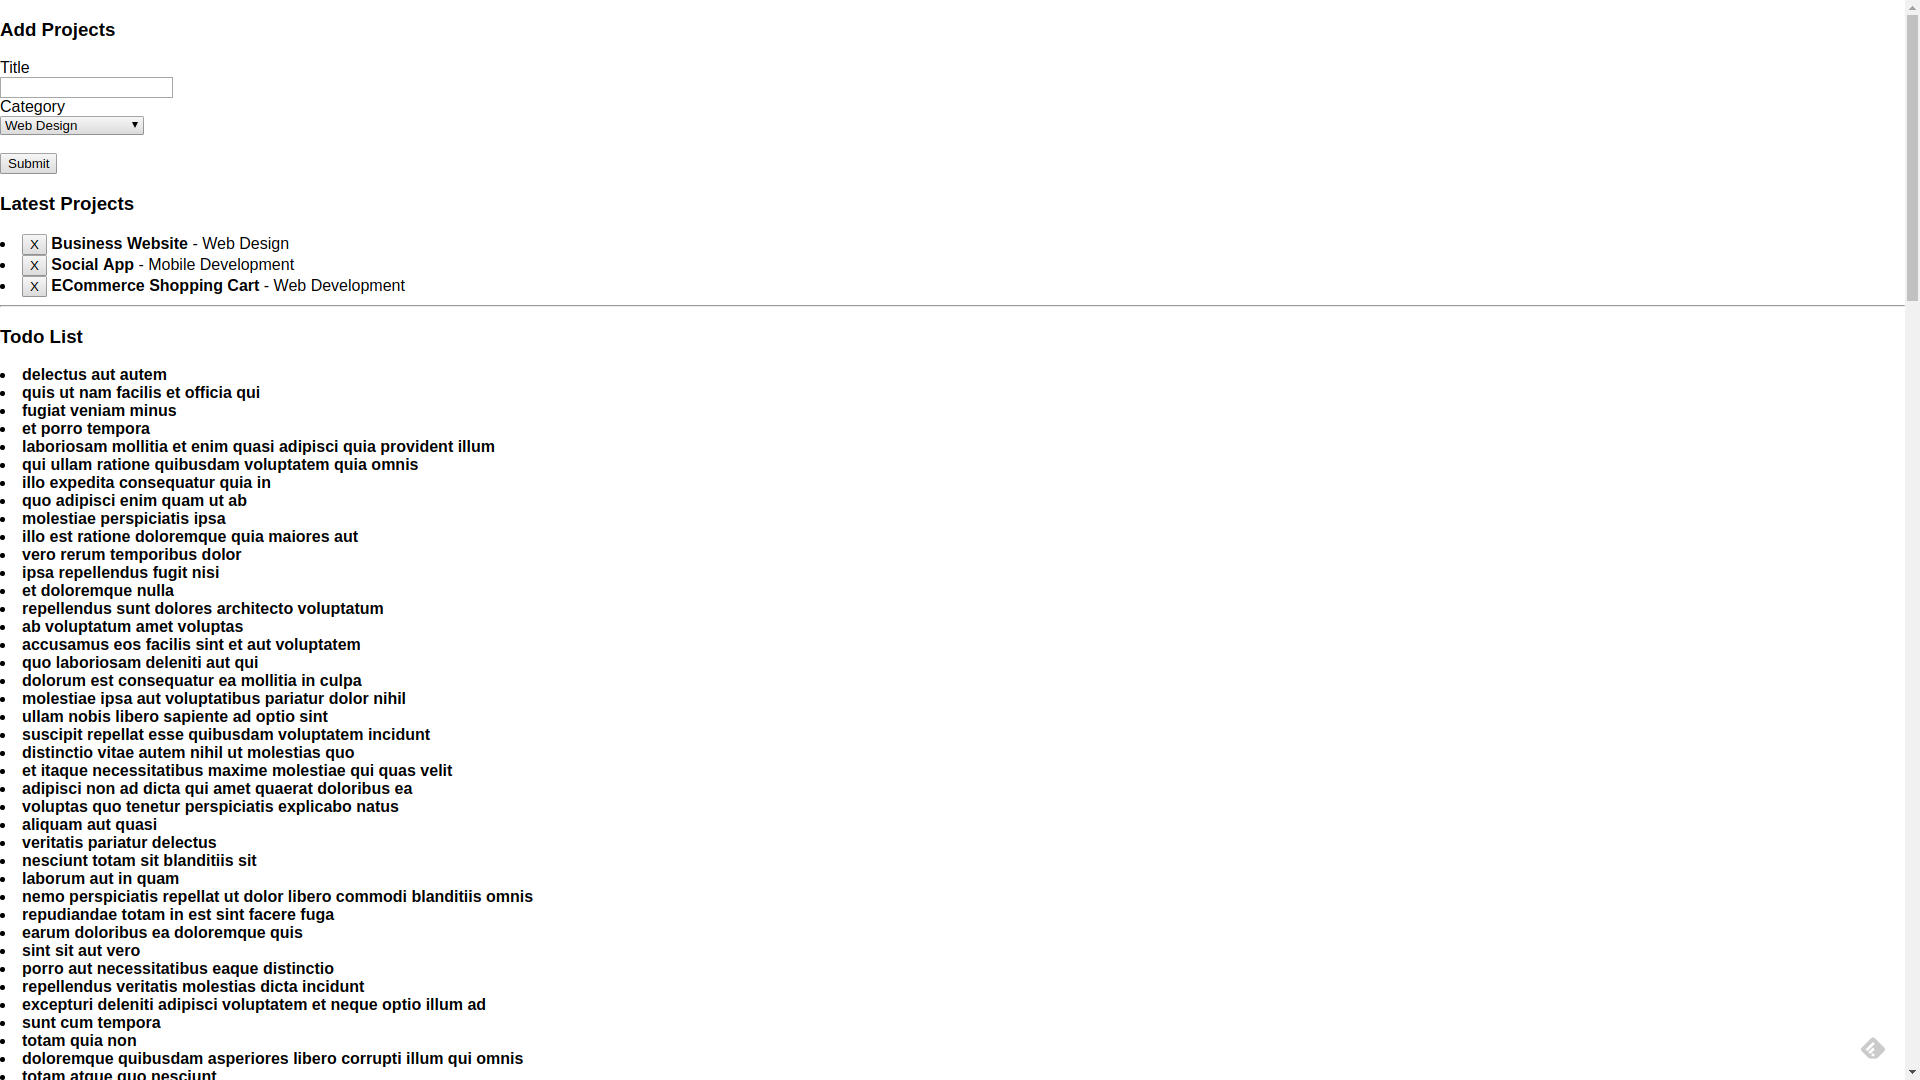
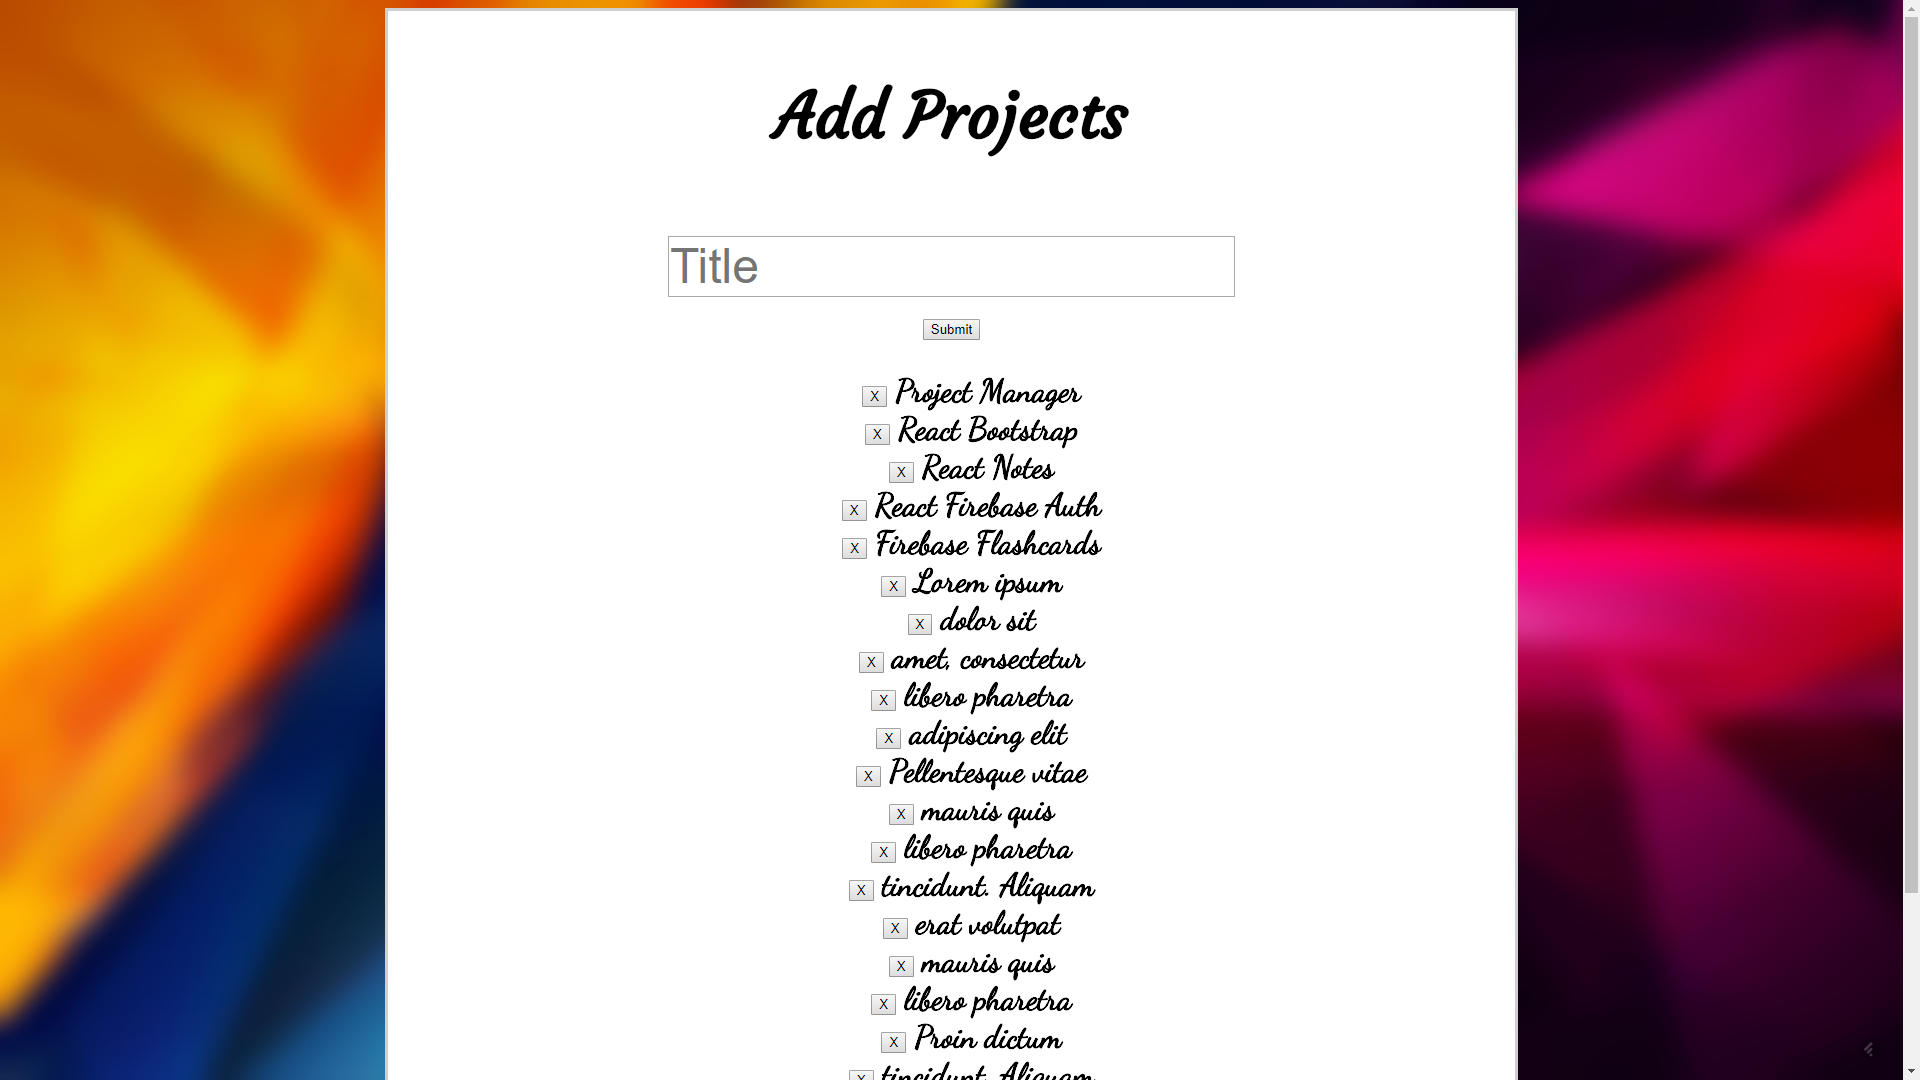
Improved styling of project manager.

diff --git a/projectmanager/src/App.js b/projectmanager/src/App.js
@@ -1,9 +1,8 @@
 import React, { Component } from 'react';
 import uuid from 'uuid';
-import Projects from './components/Projects';
-import AddProject from './components/AddProject';
-import $ from 'jquery';
-import Todos from './components/Todos';
+import Projects from './Projects/Projects';
+import AddProject from './AddProject/AddProject';
+import './App.css'
 
 class App extends Component {
   constructor(){
@@ -14,38 +13,91 @@ class App extends Component {
     }
   }
 
-  getTodos(){
-    $.ajax({
-      url: 'https://jsonplaceholder.typicode.com/todos',
-      dataType: 'json',
-      cache: false,
-      success: function(data){
-        this.setState({todos: data}, function(){
-          console.log(this.state);
-        });
-      }.bind(this),
-      erros: function(xhr, status, err){
-        console.log(err);
-      }
-    });
-  }
-
   getProjects(){
     this.setState({projects: [
       {
         id: uuid.v4(),
-        title: 'Business Website',
-        category: 'Web Design'
+        title: 'Project Manager'
       },
       {
         id: uuid.v4(),
-        title: 'Social App',
-        category: 'Mobile Development'
+        title: 'React Bootstrap'
       },
       {
         id: uuid.v4(),
-        title: 'ECommerce Shopping Cart',
-        category: 'Web Development'
+        title: 'React Notes'
+      },
+      {
+        id: uuid.v4(),
+        title: 'React Firebase Auth'
+      },
+      {
+        id: uuid.v4(),
+        title: 'Firebase Flashcards'
+      },
+      {
+        id: uuid.v4(),
+        title: 'Lorem ipsum'
+      },
+      {
+        id: uuid.v4(),
+        title: 'dolor sit'
+      },
+      {
+        id: uuid.v4(),
+        title: 'amet, consectetur'
+      },
+      {
+        id: uuid.v4(),
+        title: 'libero pharetra'
+      },
+      {
+        id: uuid.v4(),
+        title: 'adipiscing elit'
+      },
+      {
+        id: uuid.v4(),
+        title: 'Pellentesque vitae'
+      },
+      {
+        id: uuid.v4(),
+        title: 'mauris quis'
+      },
+      {
+        id: uuid.v4(),
+        title: 'libero pharetra'
+      },
+      {
+        id: uuid.v4(),
+        title: 'tincidunt. Aliquam'
+      },
+      {
+        id: uuid.v4(),
+        title: 'erat volutpat'
+      },
+      {
+        id: uuid.v4(),
+        title: 'mauris quis'
+      },
+      {
+        id: uuid.v4(),
+        title: 'libero pharetra'
+      },
+      {
+        id: uuid.v4(),
+        title: 'Proin dictum'
+      },
+      {
+        id: uuid.v4(),
+        title: 'tincidunt. Aliquam'
+      },
+      {
+        id: uuid.v4(),
+        title: 'erat volutpat'
+      },
+      {
+        id: uuid.v4(),
+        title: 'Proin dictum'
       }
     
     ]});
@@ -53,11 +105,6 @@ class App extends Component {
 
   componentWillMount(){
     this.getProjects();
-    this.getTodos();
-  }
-
-  componentDidMount(){
-    this.getTodos();
   }
 
   handleAddProject(project){
@@ -76,11 +123,9 @@ class App extends Component {
   render() {
     return (
       <div className="App">
-        <AddProject addProject={this.handleAddProject.bind(this)} />
-        
-        <Projects projects={this.state.projects} onDelete={this.handleDeleteProject.bind(this)}/>
-        <hr />
-        <Todos todos={this.state.todos} />
+          <AddProject addProject={this.handleAddProject.bind(this)} />
+          
+          <Projects projects={this.state.projects} onDelete={this.handleDeleteProject.bind(this)}/>
       </div>
     );
   }

diff --git a/projectmanager/src/AddProject/AddProject.jsx b/projectmanager/src/AddProject/AddProject.jsx
@@ -1,0 +1,50 @@
+import React, { Component } from 'react';
+import uuid from 'uuid';
+import PropTypes from 'prop-types';
+import './AddProject.css'
+
+class AddProject extends Component {
+  constructor(){
+    super();
+    this.state = {
+      newProject:{}
+    }
+  }
+
+  handleSubmit(e){
+    if(this.refs.title.value === ''){
+      alert('Title is required.');
+    } else{
+      this.setState({newProject:{
+        id: uuid.v4(),
+        title: this.refs.title.value
+      }}, function(){
+        this.props.addProject(this.state.newProject);
+      });
+    }
+    e.preventDefault();
+  }
+  render() {
+    return (
+      <div className="addProject">
+        <div className="form">
+          <h3 className="title">Add Projects</h3>
+          <form onSubmit={this.handleSubmit.bind(this)}>
+            <div className="title">
+              <input type="text" ref="title" placeholder="Title" />
+            </div>
+            <br />
+            <input type="submit" value="Submit" />
+          </form>
+        </div>
+      </div>
+    );
+  }
+}
+
+AddProject.propTypes = {
+  categories: PropTypes.array,
+  addProject: PropTypes.func
+}
+
+export default AddProject;

diff --git a/projectmanager/src/ProjectItem/ProjectItem.jsx b/projectmanager/src/ProjectItem/ProjectItem.jsx
@@ -1,5 +1,6 @@
 import React, { Component } from 'react';
 import PropTypes from 'prop-types';
+import './ProjectItem.css'
 
 class ProjectItem extends Component {
   deleteProject(){
@@ -10,7 +11,7 @@ class ProjectItem extends Component {
   render() {
     return (
       <li className="ProjectItem">
-        <button onClick={this.deleteProject.bind(this)}>X</button> <strong>{this.props.project.title}</strong> - {this.props.project.category}
+        <button onClick={this.deleteProject.bind(this)}>X</button> <strong>{this.props.project.title}</strong>
       </li>
     );
   }

diff --git a/projectmanager/src/Projects/Projects.jsx b/projectmanager/src/Projects/Projects.jsx
@@ -1,6 +1,7 @@
 import React, { Component } from 'react';
-import ProjectItem from './ProjectItem';
+import ProjectItem from './..//ProjectItem/ProjectItem';
 import PropTypes from 'prop-types';
+import './Projects.css'
 
 class Projects extends Component {
   deleteProject(id){
@@ -18,8 +19,9 @@ class Projects extends Component {
     }
     return (
       <div className="Projects">
-        <h3>Latest Projects</h3>
-        {projectItems}
+        <ul>
+          {projectItems}
+        </ul>
       </div>
     );
   }

diff --git a/projectmanager/src/index.css b/projectmanager/src/index.css
@@ -1,5 +1,5 @@
+@import url('https://fonts.googleapis.com/css?family=Courgette|Dancing+Script');
 body {
-  margin: 0;
-  padding: 0;
-  font-family: sans-serif;
+  background-image: url("/Assets/background.png");
+  background-attachment: fixed;
 }

diff --git a/projectmanager/src/App.css b/projectmanager/src/App.css
@@ -1,5 +1,9 @@
 .App {
+  margin-left: 20%;
+  margin-right: 20%;
   text-align: center;
+  background-color: white;
+  border: 3px solid rgb(207, 207, 207);
 }
 
 .App-logo {

diff --git a/projectmanager/src/AddProject/AddProject.css b/projectmanager/src/AddProject/AddProject.css
@@ -1,0 +1,9 @@
+.addProject .title {
+  font-family: 'Courgette';
+  font-size: 4em;
+}
+
+.title input {
+  width: 50%;
+  font-size: .75em;
+}

diff --git a/projectmanager/src/Projects/Projects.css b/projectmanager/src/Projects/Projects.css
@@ -1,0 +1,7 @@
+ul {
+  list-style: none;
+}
+
+.Projects ul {
+  font-size: 2em;
+}

diff --git a/projectmanager/src/ProjectItem/ProjectItem.css b/projectmanager/src/ProjectItem/ProjectItem.css
@@ -1,0 +1,3 @@
+.ProjectItem {
+  font-family: "Dancing Script";
+}
